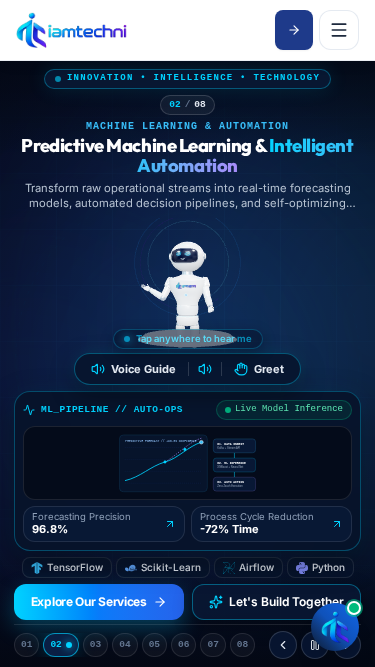
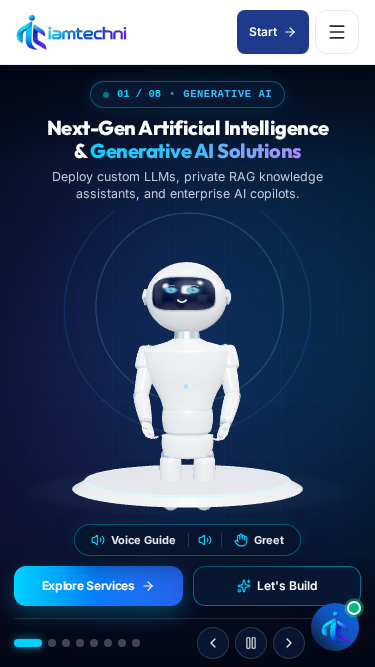
feat(hero): add concise service descriptions for mobile
Introduce `MOBILE_CONCISE_DESCRIPTIONS` to improve readability and layout efficiency on smaller screens. Updated the mobile hero layout to prioritize these descriptions, ensuring a cleaner visual hierarchy and better usage of vertical space.

diff --git a/src/components/robot-hero/HeroContent.tsx b/src/components/robot-hero/HeroContent.tsx
@@ -32,6 +32,25 @@ const renderHighlightedHeadline = (headline: string, highlightPhrase: string) =>
   );
 };
 
+const MOBILE_CONCISE_DESCRIPTIONS: Record<string, string> = {
+  'ai-generative':
+    'Deploy custom LLMs, private RAG knowledge assistants, and enterprise AI copilots.',
+  'ml-automation':
+    'Turn operational data into real-time predictive models and automated workflows.',
+  'robotics-systems':
+    'Connect edge AI vision, ROS 2 motion control, and real-time hardware telemetry.',
+  'web-ecommerce':
+    'Build ultra-fast web platforms and scalable e-commerce storefronts engineered to convert.',
+  'mobile-apps':
+    'Deliver sleek iOS, Android, and cross-platform apps with native 60fps performance.',
+  'custom-software':
+    'Replace legacy tools with custom enterprise platforms, SaaS products, and secure APIs.',
+  'cloud-devops':
+    'Scale on AWS and Azure with Kubernetes orchestration and zero-downtime CI/CD.',
+  'digital-marketing':
+    'Accelerate qualified pipeline with technical SEO, conversion optimization, and analytics.',
+};
+
 export const HeroContent: React.FC<HeroContentProps> = ({
   slide,
   onNavigate,
@@ -53,38 +72,34 @@ export const HeroContent: React.FC<HeroContentProps> = ({
   };
 
   if (mode === 'mobile-top') {
-    return (
-      <div className="flex flex-col items-center text-center w-full shrink-0">
-        {/* Eyebrow + Active Service Counter */}
-        <div className="flex flex-wrap items-center justify-center gap-1.5 sm:gap-2 mb-1 sm:mb-1.5">
-          <div className="inline-flex items-center gap-1.5 px-2.5 py-0.5 sm:px-3 sm:py-1 rounded-full bg-[#091834]/90 border border-[#00D2FF]/35 text-[9px] sm:text-[10px] font-mono uppercase tracking-[0.14em] text-[#00D2FF] font-bold shadow-[0_0_20px_rgba(0,210,255,0.12)]">
-            <span className="w-1.5 h-1.5 rounded-full bg-[#00D2FF] animate-pulse shrink-0" />
-            <span>INNOVATION • INTELLIGENCE • TECHNOLOGY</span>
-          </div>
+    const mobileDescription =
+      MOBILE_CONCISE_DESCRIPTIONS[slide.id] || slide.description;
 
-          <span className="inline-flex items-center gap-1 px-2 py-0.5 rounded-full bg-white/5 border border-white/15 text-[9.5px] sm:text-[10px] font-mono font-bold text-slate-200">
-            <span className="text-[#00D2FF]">{slide.counterLabel.split(' / ')[0]}</span>
-            <span className="text-slate-500">/</span>
-            <span>{slide.counterLabel.split(' / ')[1]}</span>
+    return (
+      <div className="flex flex-col items-center text-center w-full shrink-0 pt-1">
+        {/* Single Compact Service Pill (Counter + Short Service Name) */}
+        <div className="inline-flex items-center gap-2 px-3 py-1 rounded-full bg-[#091834]/90 border border-[#00D2FF]/35 text-[10.5px] sm:text-xs font-mono font-bold text-slate-200 mb-2 shadow-[0_0_18px_rgba(0,210,255,0.12)]">
+          <span className="w-1.5 h-1.5 rounded-full bg-[#00D2FF] animate-pulse shrink-0" />
+          <span className="text-[#00D2FF]">{slide.counterLabel}</span>
+          <span className="text-slate-500" aria-hidden="true">•</span>
+          <span className="text-[#38BDF8] uppercase tracking-wider">
+            {slide.shortTitle}
           </span>
         </div>
 
-        {/* Animated Service Headline & Description */}
+        {/* Essential Service Headline & Concise Supporting Description */}
         <motion.div
           key={`mobile-text-${slide.id}`}
           initial={prefersReducedMotion ? false : { opacity: 0.9, y: 4 }}
           animate={{ opacity: 1, y: 0 }}
           transition={{ duration: 0.28, ease: [0.16, 1, 0.3, 1] }}
-          className="w-full"
+          className="w-full max-w-md sm:max-w-xl mx-auto px-1"
         >
-          <div className="text-[10px] sm:text-[11px] font-mono uppercase tracking-widest text-[#38BDF8] font-semibold mb-0.5">
-            {slide.categoryLabel}
-          </div>
-          <h1 className="text-[clamp(1.15rem,min(4.8vw,2.65dvh),1.95rem)] font-extrabold tracking-tight leading-[1.12] mb-1">
+          <h1 className="text-[clamp(1.25rem,min(5.2vw,3.15dvh),1.95rem)] sm:text-[clamp(1.55rem,min(4vw,3.5dvh),2.25rem)] font-extrabold tracking-tight leading-[1.15] mb-1.5">
             {renderHighlightedHeadline(slide.headline, slide.highlightPhrase)}
           </h1>
-          <p className="text-[clamp(0.7rem,min(3.1vw,1.62dvh),0.875rem)] text-slate-300/90 leading-snug max-w-xl mx-auto line-clamp-2 sm:line-clamp-3">
-            {slide.description}
+          <p className="text-[clamp(0.78rem,min(3.4vw,1.85dvh),0.9rem)] text-slate-300/95 leading-snug max-w-[40ch] mx-auto">
+            {mobileDescription}
           </p>
         </motion.div>
       </div>
@@ -93,41 +108,25 @@ export const HeroContent: React.FC<HeroContentProps> = ({
 
   if (mode === 'mobile-bottom') {
     return (
-      <div className="flex flex-col items-center w-full gap-1.5 sm:gap-2 shrink-0">
-        {/* Compact Tech Stack Row on Mobile */}
-        <div className="flex items-center justify-center flex-wrap gap-1 sm:gap-1.5">
-          {slide.techStack.map((tech) => {
-            const Icon = tech.icon;
-            return (
-              <div
-                key={tech.name}
-                className="inline-flex items-center gap-1 px-2 py-0.5 sm:px-2.5 sm:py-1 rounded-lg bg-[#08152E]/90 border border-white/10 text-[10px] sm:text-[11px] font-medium text-slate-200"
-              >
-                <Icon className="w-3 h-3 sm:w-3.5 sm:h-3.5 shrink-0" style={{ color: tech.color }} />
-                <span>{tech.name}</span>
-              </div>
-            );
-          })}
-        </div>
-
-        {/* Two CTA Buttons — Side-by-side on mobile & tablet to preserve vertical viewport fit */}
-        <div className="grid grid-cols-2 gap-2 sm:gap-2.5 w-full">
+      <div className="flex flex-col items-center w-full shrink-0 pt-0.5">
+        {/* Essential CTA Buttons — Clean, prominent, and easy to tap on all mobile widths */}
+        <div className="grid grid-cols-2 gap-2.5 sm:gap-3 w-full max-w-md sm:max-w-lg mx-auto">
           <button
             type="button"
             onClick={handleExploreServices}
-            className="group inline-flex items-center justify-center gap-1.5 h-9 sm:h-10 px-3 sm:px-5 rounded-xl bg-gradient-to-r from-[#00D2FF] via-[#087BFA] to-[#2563EB] text-white font-bold text-xs sm:text-sm tracking-tight shadow-[0_8px_22px_rgba(0,210,255,0.26)] hover:shadow-[0_12px_28px_rgba(0,210,255,0.4)] transition-all duration-200 cursor-pointer whitespace-nowrap"
+            className="group inline-flex items-center justify-center gap-1.5 h-10 sm:h-11 px-3 sm:px-5 rounded-xl bg-gradient-to-r from-[#00D2FF] via-[#087BFA] to-[#2563EB] text-white font-bold text-xs sm:text-sm tracking-tight shadow-[0_8px_22px_rgba(0,210,255,0.26)] hover:shadow-[0_12px_28px_rgba(0,210,255,0.4)] active:scale-[0.99] transition-all duration-200 cursor-pointer whitespace-nowrap"
           >
-            <span>Explore Our Services</span>
+            <span>Explore Services</span>
             <ArrowRight className="w-3.5 h-3.5 sm:w-4 sm:h-4 shrink-0 group-hover:translate-x-0.5 transition-transform" />
           </button>
 
           <button
             type="button"
             onClick={() => onOpenProjectModal(slide.categoryLabel)}
-            className="inline-flex items-center justify-center gap-1.5 h-9 sm:h-10 px-3 sm:px-5 rounded-xl bg-[#091834]/85 hover:bg-[#0D224A] text-white font-semibold text-xs sm:text-sm border border-[#00D2FF]/40 hover:border-[#00D2FF]/80 shadow-[0_6px_18px_rgba(0,0,0,0.35)] transition-all duration-200 cursor-pointer whitespace-nowrap"
+            className="inline-flex items-center justify-center gap-1.5 h-10 sm:h-11 px-3 sm:px-5 rounded-xl bg-[#091834]/90 hover:bg-[#0D224A] text-white font-semibold text-xs sm:text-sm border border-[#00D2FF]/45 hover:border-[#00D2FF]/80 shadow-[0_6px_18px_rgba(0,0,0,0.35)] active:scale-[0.99] transition-all duration-200 cursor-pointer whitespace-nowrap"
           >
             <Sparkles className="w-3.5 h-3.5 sm:w-4 sm:h-4 text-[#00D2FF] shrink-0" />
-            <span>Let&apos;s Build Together</span>
+            <span>Let&apos;s Build</span>
           </button>
         </div>
       </div>

diff --git a/src/components/robot-hero/HeroSection.tsx b/src/components/robot-hero/HeroSection.tsx
@@ -573,13 +573,12 @@ export const HeroSection: React.FC<HeroSectionProps> = ({
 
         {/* ===================================================================
             MOBILE & TABLET VERTICAL LAYOUT (< 1024px)
-            1. Top: Service heading and short description
-            2. Middle: Central robot animation (fluidly scaled to remaining height)
-            3. Below robot: Compact related-service visual
-            4. Bottom: CTA buttons and service navigation controls
+            1. Top: Single service pill, essential heading, and concise description
+            2. Middle: Central 3D robot animation with generous breathing room
+            3. Bottom: Prominent CTA buttons and streamlined service switcher
         =================================================================== */}
-        <div className="flex lg:hidden flex-col items-center justify-between gap-1.5 sm:gap-2 w-full flex-1 min-h-0">
-          {/* 1. Top: Service Heading & Short Description */}
+        <div className="flex lg:hidden flex-col items-center justify-between gap-2 sm:gap-3 w-full flex-1 min-h-0 py-1">
+          {/* 1. Top: Service Heading & Short Supporting Description */}
           <HeroContent
             slide={activeSlide}
             onNavigate={onNavigate}
@@ -587,9 +586,9 @@ export const HeroSection: React.FC<HeroSectionProps> = ({
             mode="mobile-top"
           />
 
-          {/* 2. Middle: Central 3D Robot Animation & Voice Controls */}
-          <div className="relative w-full flex-1 min-h-[120px] self-stretch flex flex-col items-center justify-center">
-            <div className="relative w-full max-w-[440px] flex-1 min-h-[100px] self-stretch mx-auto">
+          {/* 2. Middle: Central 3D Robot Animation & Compact Voice Controls */}
+          <div className="relative w-full flex-1 min-h-[170px] sm:min-h-[240px] self-stretch flex flex-col items-center justify-center">
+            <div className="relative w-full max-w-[380px] sm:max-w-[440px] flex-1 min-h-[145px] sm:min-h-[200px] self-stretch mx-auto">
               <div className="absolute inset-0">
                 {!isDesktop && (
                   <RobotScene
@@ -619,11 +618,11 @@ export const HeroSection: React.FC<HeroSectionProps> = ({
               </AnimatePresence>
             </div>
 
-            <div className="shrink-0 -mt-0.5">
+            <div className="shrink-0 mt-1">
               <RobotSpeechControls
                 isSpeaking={isVoiceSpeaking}
                 isMuted={isMuted}
-                showTapToHearHint={!hasInteracted && !isMuted}
+                showTapToHearHint={false}
                 onToggleVoiceGuide={handleToggleVoiceGuide}
                 onToggleMute={handleToggleMute}
                 onTriggerGreeting={handleTriggerGreeting}
@@ -631,16 +630,7 @@ export const HeroSection: React.FC<HeroSectionProps> = ({
             </div>
           </div>
 
-          {/* 3. Below Robot: Compact Related-Service Visual */}
-          <div className="w-full max-w-xl mx-auto shrink-0">
-            <HeroServiceVisuals
-              slide={activeSlide}
-              onNavigate={onNavigate}
-              compact
-            />
-          </div>
-
-          {/* 4. Bottom: CTA Buttons */}
+          {/* 3. Bottom: Essential CTA Buttons */}
           <div className="w-full max-w-xl mx-auto shrink-0">
             <HeroContent
               slide={activeSlide}
@@ -652,9 +642,75 @@ export const HeroSection: React.FC<HeroSectionProps> = ({
         </div>
 
         {/* ===================================================================
-            SYNCHRONIZED 8-SERVICE CAROUSEL NAVIGATION BAR (Desktop & Mobile)
+            MOBILE & TABLET STREAMLINED SERVICE SWITCHER (< 1024px)
         =================================================================== */}
-        <div className="relative z-20 mt-1 sm:mt-2 lg:mt-2 pt-1.5 sm:pt-2 border-t border-white/10 flex flex-row items-center justify-between gap-1.5 sm:gap-2.5 shrink-0">
+        <div className="relative z-20 mt-2 pt-2 pr-14 sm:pr-16 border-t border-white/10 flex lg:hidden items-center justify-between gap-2 w-full max-w-md sm:max-w-lg mx-auto shrink-0">
+          {/* Interactive Progress Dots for the 8 Services */}
+          <div
+            role="tablist"
+            aria-label="Select active IAMTECHNI service"
+            className="flex items-center gap-1.5"
+          >
+            {HERO_SERVICE_SLIDES.map((item, idx) => {
+              const isActive = idx === activeIndex;
+              return (
+                <button
+                  key={item.id}
+                  type="button"
+                  role="tab"
+                  aria-selected={isActive}
+                  aria-label={`Service ${idx + 1}: ${item.categoryLabel}`}
+                  onClick={() => handleSelectSlide(idx)}
+                  className={`h-2 rounded-full transition-all duration-250 cursor-pointer focus:outline-hidden focus-visible:ring-2 focus-visible:ring-[#00D2FF] ${
+                    isActive
+                      ? 'w-7 bg-[#00D2FF] shadow-[0_0_10px_rgba(0,210,255,0.6)]'
+                      : 'w-2 bg-white/25 hover:bg-white/45'
+                  }`}
+                />
+              );
+            })}
+          </div>
+
+          {/* Prev / Play-Pause / Next Touch Controls */}
+          <div className="inline-flex items-center gap-1.5 shrink-0">
+            <button
+              type="button"
+              onClick={handlePrevSlide}
+              aria-label="Previous service"
+              className="w-8 h-8 rounded-full bg-[#081632]/90 hover:bg-[#0E244D] border border-white/15 hover:border-[#00D2FF]/60 flex items-center justify-center text-slate-200 hover:text-[#00D2FF] transition-colors cursor-pointer active:scale-95"
+            >
+              <ChevronLeft className="w-4 h-4" />
+            </button>
+
+            <button
+              type="button"
+              onClick={() => setIsAutoPlaying((prev) => !prev)}
+              aria-label={isAutoPlaying ? 'Pause service rotation' : 'Resume service rotation'}
+              className="w-8 h-8 rounded-full bg-[#081632]/90 hover:bg-[#0E244D] border border-white/15 hover:border-[#00D2FF]/60 flex items-center justify-center text-slate-200 hover:text-[#00D2FF] transition-colors cursor-pointer active:scale-95"
+            >
+              {isAutoPlaying ? (
+                <Pause className="w-3.5 h-3.5" />
+              ) : (
+                <Play className="w-3.5 h-3.5 ml-0.5" />
+              )}
+            </button>
+
+            <button
+              type="button"
+              onClick={handleNextSlide}
+              aria-label="Next service"
+              className="w-8 h-8 rounded-full bg-[#081632]/90 hover:bg-[#0E244D] border border-white/15 hover:border-[#00D2FF]/60 flex items-center justify-center text-slate-200 hover:text-[#00D2FF] transition-colors cursor-pointer active:scale-95"
+            >
+              <ChevronRight className="w-4 h-4" />
+            </button>
+          </div>
+        </div>
+
+        {/* ===================================================================
+            DESKTOP SYNCHRONIZED 8-SERVICE CAROUSEL NAVIGATION BAR (lg: >= 1024px)
+            Preserved 100% unchanged for Desktop
+        =================================================================== */}
+        <div className="relative z-20 mt-1 sm:mt-2 lg:mt-2 pt-1.5 sm:pt-2 border-t border-white/10 hidden lg:flex flex-row items-center justify-between gap-1.5 sm:gap-2.5 shrink-0">
           {/* 8 Service Interactive Pills / Indicators — Single non-wrapping row */}
           <div
             role="tablist"
